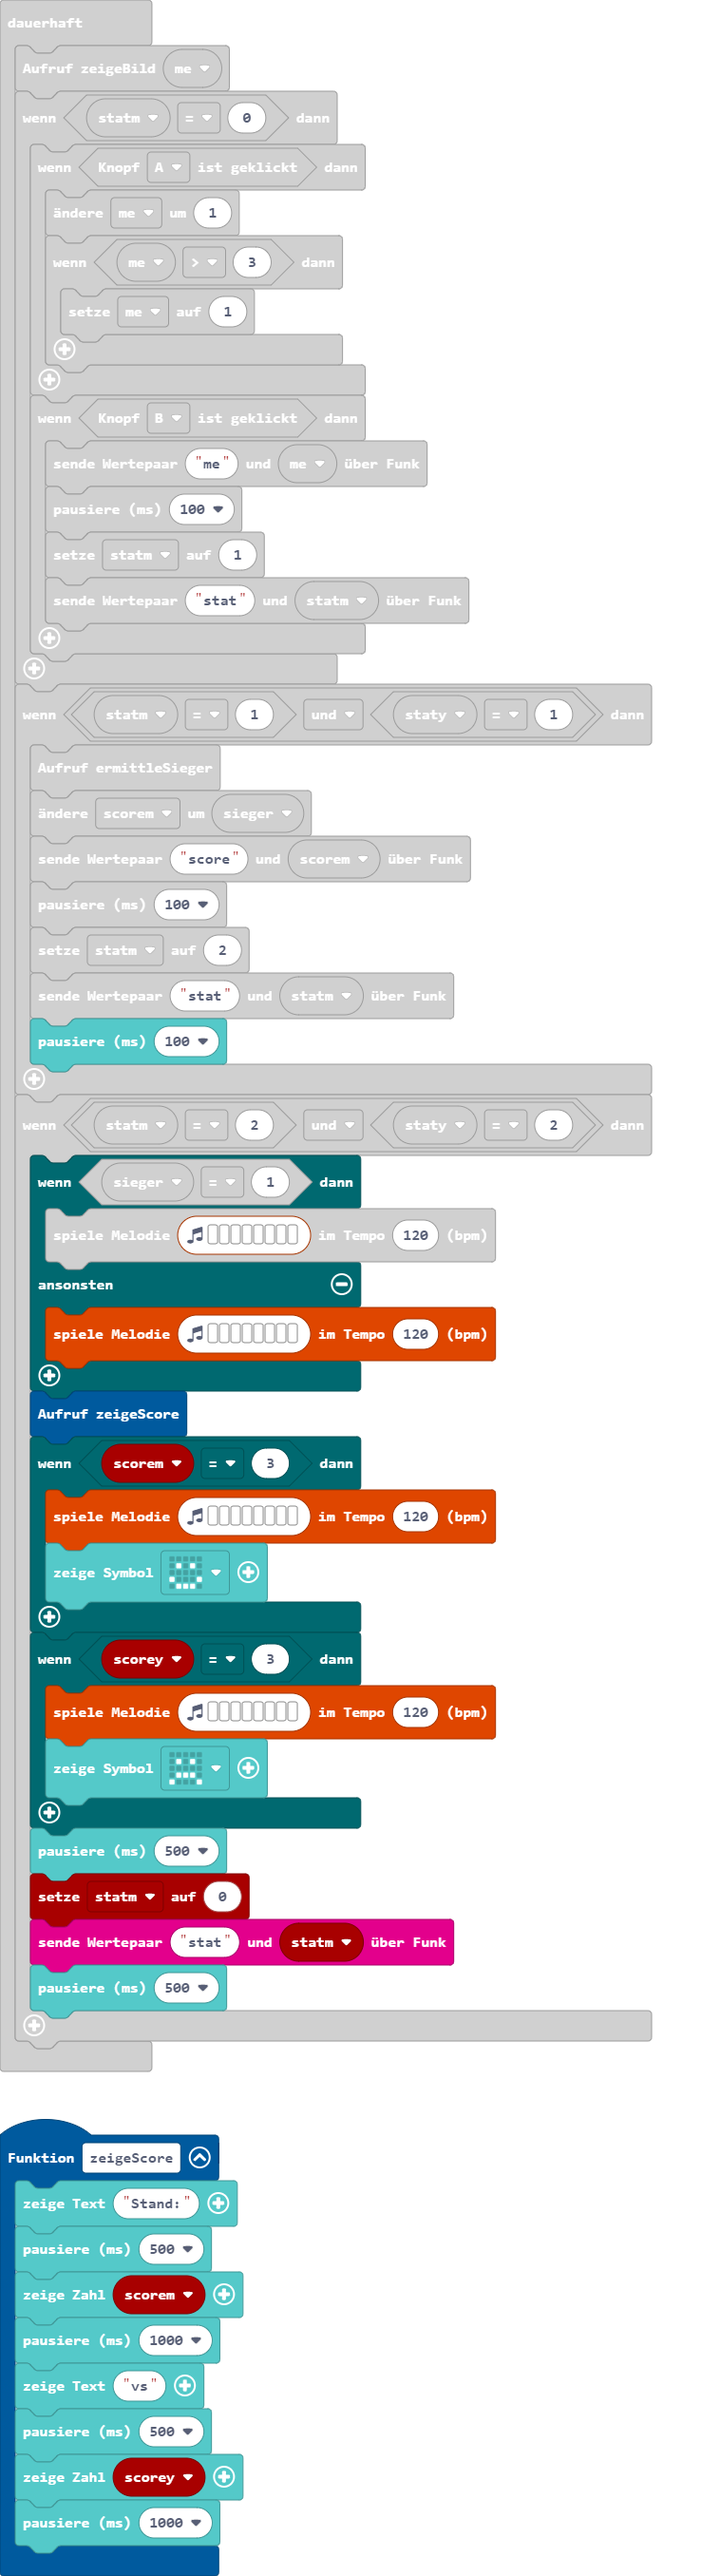
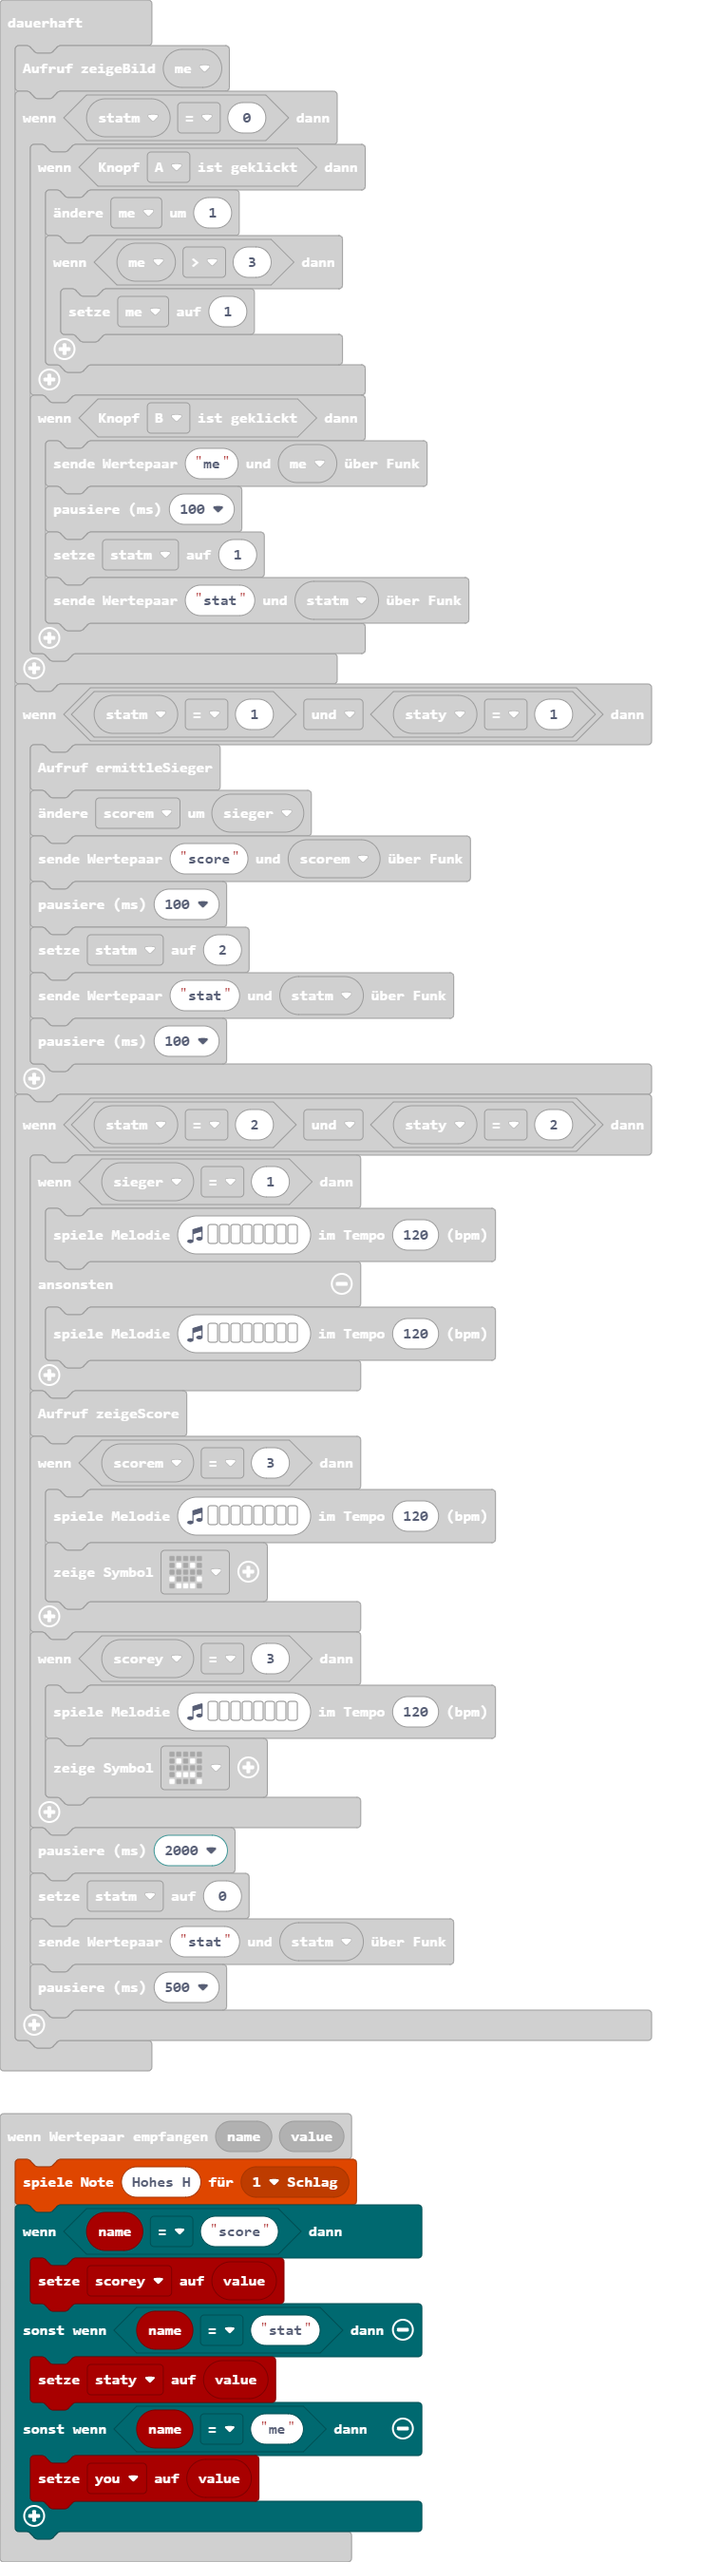
Aktualisiere pxt.json, main.blocks, main.ts

Changed region(s): [[0.0, 0.0623, 0.935, 1.0], [0.8726, 0.2492, 0.9038, 0.2803]]

diff --git a/main.ts b/main.ts
@@ -48,6 +48,7 @@ function zeigeScore () {
     basic.pause(1000)
 }
 radio.onReceivedValue(function (name, value) {
+    music.playTone(988, music.beat(BeatFraction.Whole))
     if (name == "score") {
         scorey = value
     } else if (name == "stat") {
@@ -113,7 +114,7 @@ basic.forever(function () {
             music.playMelody("D C D C C C - - ", 120)
             basic.showIcon(IconNames.Sad)
         }
-        basic.pause(500)
+        basic.pause(2000)
         statm = 0
         radio.sendValue("stat", statm)
         basic.pause(500)
